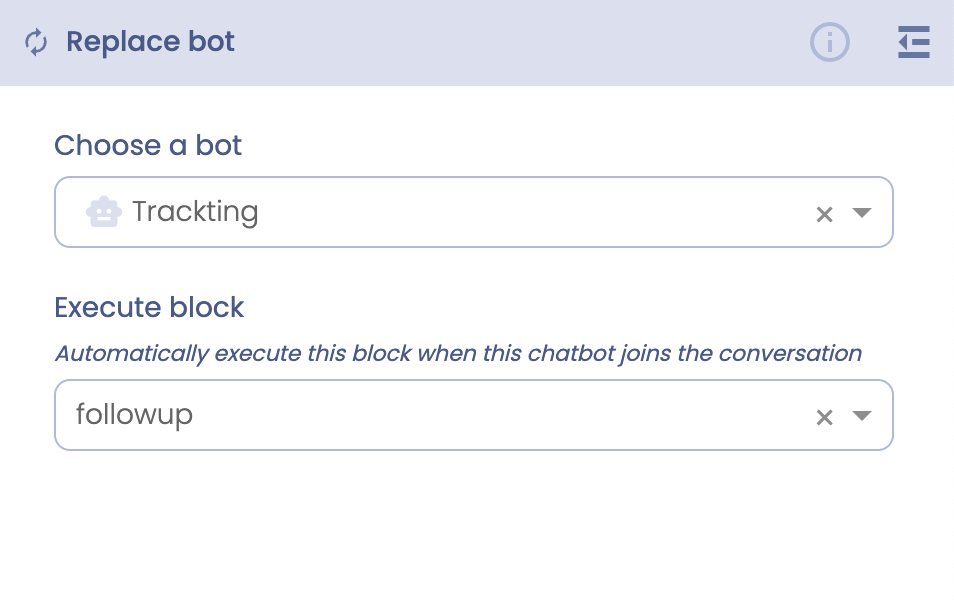
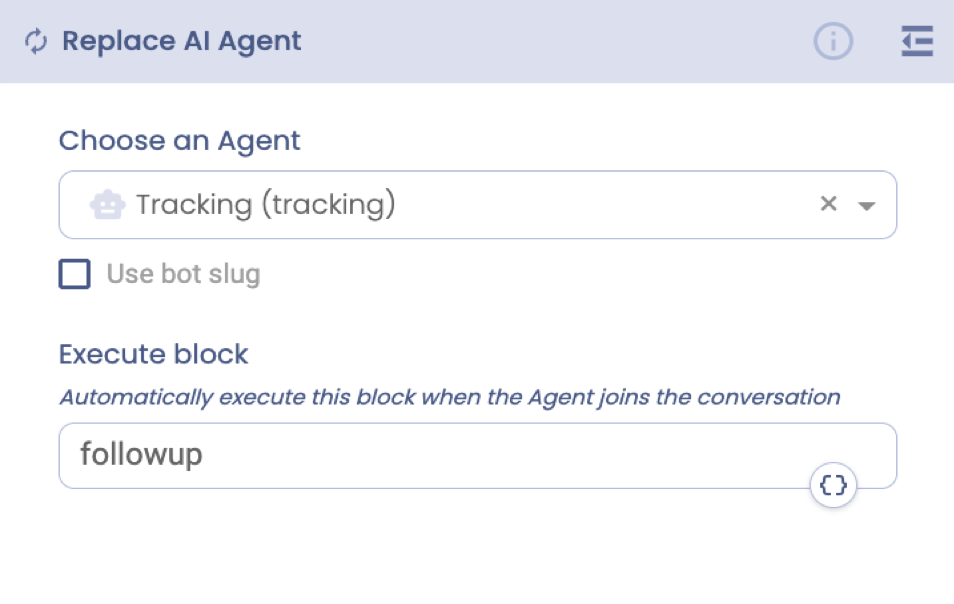
- **bug-fix**: Text correction on replace AI agent

diff --git a/src/app/chatbot-design-studio/cds-dashboard/cds-canvas/actions/list/cds-action-replace-bot/cds-action-replace-bot-v3/cds-action-replace-bot-v3.component.html b/src/app/chatbot-design-studio/cds-dashboard/cds-canvas/actions/list/cds-action-replace-bot/cds-action-replace-bot-v3/cds-action-replace-bot-v3.component.html
@@ -20,7 +20,7 @@
             {{ (chatbots_name_list | find:{key: 'id', value: action?.botId })?.name }} <div class="slug" [ngClass]="action?.botSlug | variableCssClass"  *ngIf="action?.botSlug">{{ formatBotSlug(action?.botSlug) }}</div>
         </div>
         <div *ngIf="!action?.botId && !action?.botSlug" class="action-row-right empty"> 
-            {{'CDSCanvas.ChooseBot' | translate }}
+            {{'CDSCanvas.ChooseAgent' | translate }}
         </div>
         
     </div>
@@ -42,7 +42,7 @@
 
 <div *ngIf="!previewMode" class="content-panel-intent-detail">
     <div class="field-box">
-        <label class="title-label">{{'CDSCanvas.ChooseBot' | translate }}</label>
+        <label class="title-label">{{'CDSCanvas.ChooseAgent' | translate }}</label>
         <cds-select *ngIf="!action?.useSlug" id="text-condition" 
             [items]="chatbots_name_list" 
             [bindLabelSelect]="'name2'"

diff --git a/src/app/chatbot-design-studio/cds-dashboard/cds-canvas/actions/list/cds-action-replace-bot/cds-action-replace-bot-v1/cds-action-replace-bot.component.html b/src/app/chatbot-design-studio/cds-dashboard/cds-canvas/actions/list/cds-action-replace-bot/cds-action-replace-bot-v1/cds-action-replace-bot.component.html
@@ -20,7 +20,7 @@
             {{action.botName}}
         </div>
         <div *ngIf="!action?.botName" class="action-row-right empty"> 
-            {{'CDSCanvas.ChooseBot' | translate }}
+            {{'CDSCanvas.ChooseAgent' | translate }}
         </div>
         
     </div>
@@ -29,7 +29,7 @@
 <div *ngIf="!previewMode" class="content-panel-intent-detail">
 
     <div class="field-box">
-        <label class="title-label">{{'CDSCanvas.ChooseBot' | translate }}</label>
+        <label class="title-label">{{'CDSCanvas.ChooseAgent' | translate }}</label>
         <cds-select id="text-condition" 
             [items]="chatbots_name_list" 
             [bindLabelSelect]="'name'"

diff --git a/src/app/chatbot-design-studio/cds-dashboard/cds-canvas/actions/list/cds-action-replace-bot/cds-action-replace-bot-v2/cds-action-replace-bot-v2.component.html b/src/app/chatbot-design-studio/cds-dashboard/cds-canvas/actions/list/cds-action-replace-bot/cds-action-replace-bot-v2/cds-action-replace-bot-v2.component.html
@@ -20,7 +20,7 @@
             {{action.botName}}
         </div>
         <div *ngIf="!action?.botName" class="action-row-right empty"> 
-            {{'CDSCanvas.ChooseBot' | translate }}
+            {{'CDSCanvas.ChooseAgent' | translate }}
         </div>
         
     </div>
@@ -43,7 +43,7 @@
 <div *ngIf="!previewMode" class="content-panel-intent-detail">
 
     <div class="field-box">
-        <label class="title-label">{{'CDSCanvas.ChooseBot' | translate }}</label>
+        <label class="title-label">{{'CDSCanvas.ChooseAgent' | translate }}</label>
         <cds-select id="text-condition" 
             [items]="chatbots_name_list" 
             [bindLabelSelect]="'name'"

diff --git a/CHANGELOG.md b/CHANGELOG.md
@@ -7,6 +7,9 @@
 ### **Copyrigth**: 
 *Tiledesk SRL*
 
+# this branch
+- **bug-fix**: Text correction on replace AI agent
+- **bug-fix**: Fixed error on fallback contract connector in connection creation, and error on contract error connector in connection creation in action AI condition
 
 # 1.39.13
 - **added**: implemented queue for connector rendering management
